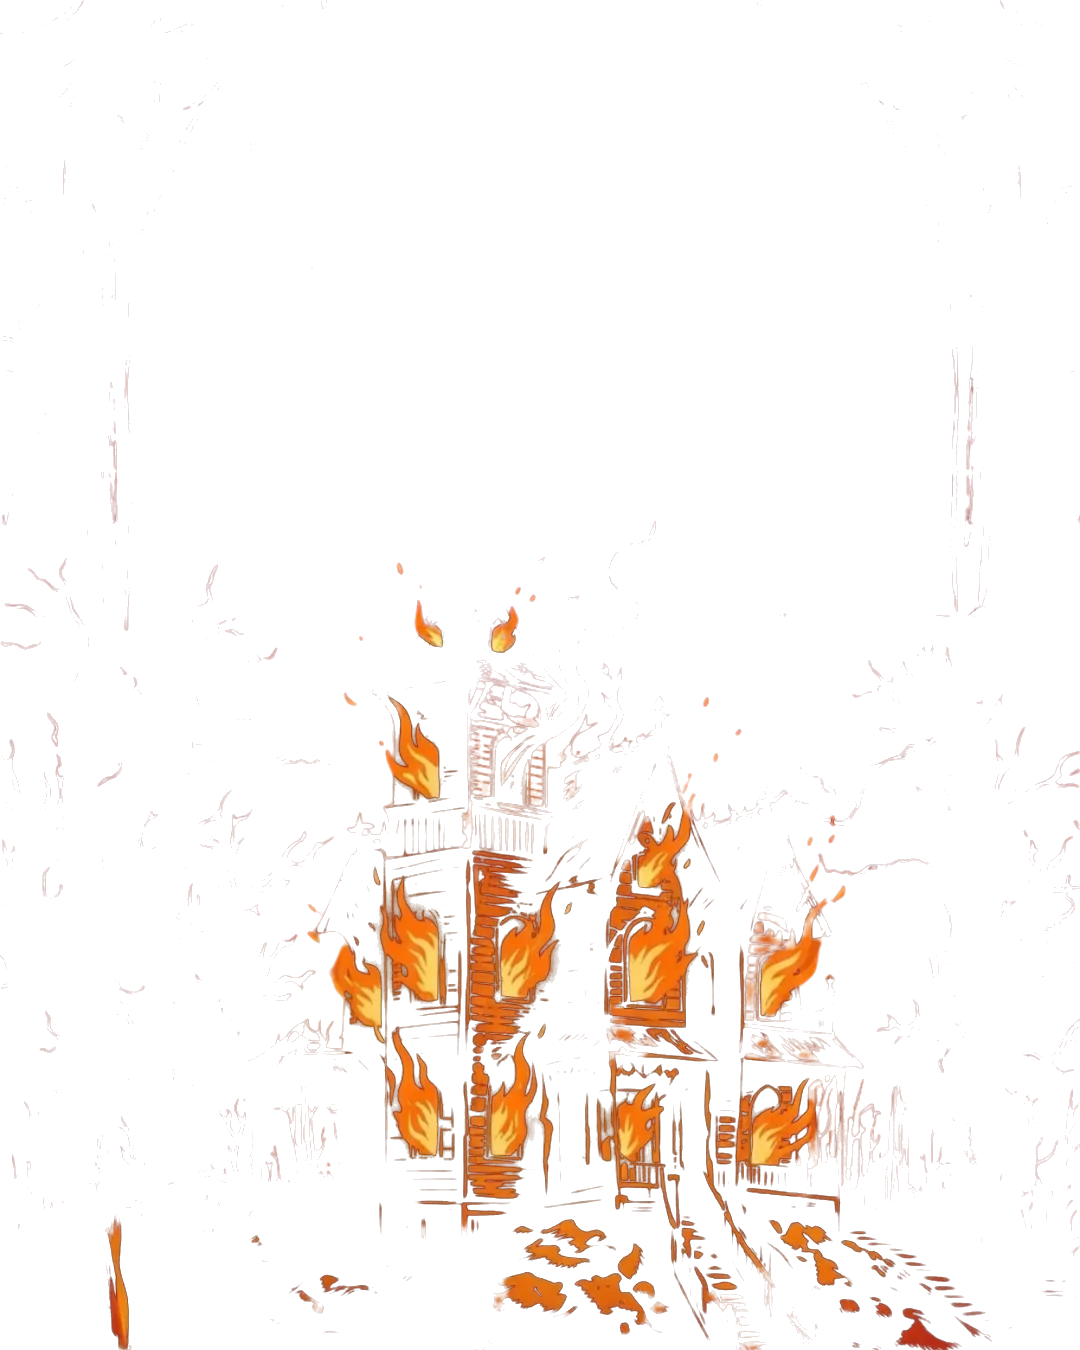
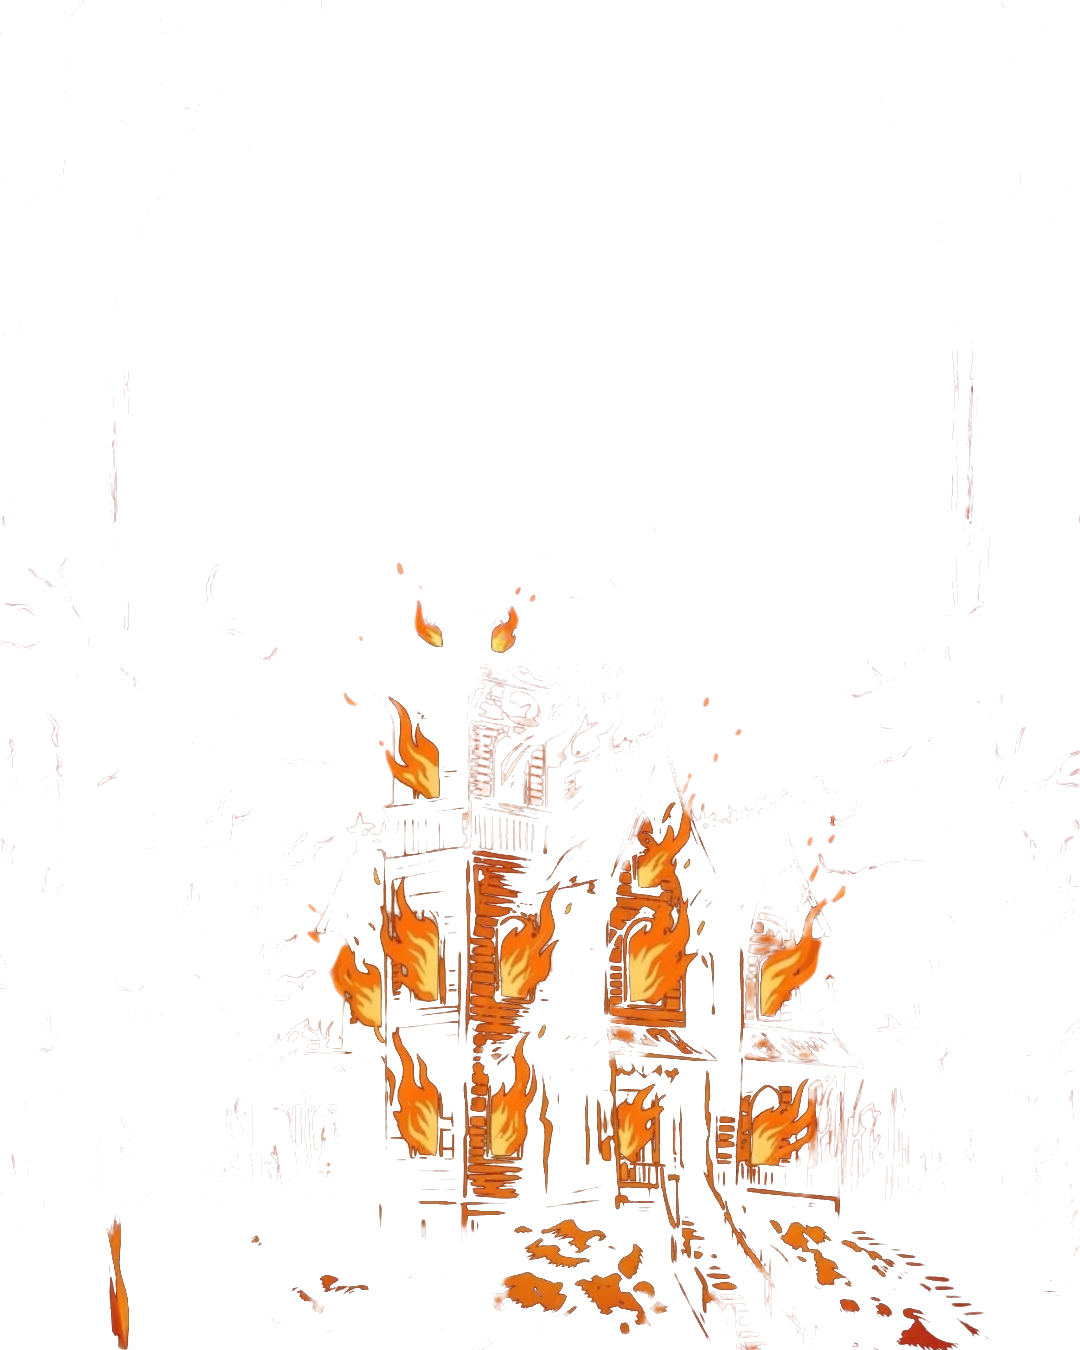
A casa volta ao tamanho de cartaz, e o fogo ganha o traço de volta
Três queixas, três causas diferentes.

**A casa na cara de quem olha.** Ela estava cortada para cobrir a tela, e
cortar um retrato numa tela larga é ampliar até doer: o desenho vinha
gigante e o traço, esticado, perdia o fio. Agora ela aparece inteira, na
proporção em que foi desenhada, e quem preenche a tela é o vermelho da
seção — que é o mesmo vermelho do fundo dela. O desenho tem um enquadramento
(árvores nas beiradas, casa ao centro, céu em cima) e jogá-lo fora era o erro.

Para o retângulo não aparecer, as bordas do desenho somem sob o próprio
vermelho, pintado por cima. Máscara aqui saía caro: ela é herdada pelos
filhos, e os filhos já são duas camadas mascaradas — cada nível obriga o
navegador a desenhar a subárvore num buffer à parte antes de compor.

**O fogo parecendo de resolução pior.** Duas causas somadas. A ampliação
acima, que sumiu junto com o corte. E o recorte: a rampa de alfa era larga
demais e comia a borda das chamas, deixando-as moles ao lado de um traço
duro. A banda ficou estreita — miolo opaco, borda fina — e o arquivo passou
a ser gravado com alfa sem perda.

Tentei também trazer o contorno preto das chamas junto do recorte, e ficou
pior: vinha o traço da outra casa junto e a linha duplicava. Desenhar um
contorno artificial em volta escureceu a cena inteira. Ficou o recorte limpo.

**A emenda com o ingresso.** O problema não estava na cena do fogo, estava na
seção de cima: a parede de ingressos continua 6% visível até o fim dela, e
[…]

diff --git a/src/components/FireSection.tsx b/src/components/FireSection.tsx
@@ -113,12 +113,17 @@ export function FireSection() {
         de seção depois da tela, e é ele que o dedo percorre com a cena parada.
       */
       const curso = caixa.height - window.innerHeight;
-      const passo = Math.round(entre0e1(curso > 0 ? -caixa.top / curso : 1) * DEGRAUS);
+      const passo = Math.round(
+        entre0e1(curso > 0 ? -caixa.top / curso : 1) * DEGRAUS,
+      );
       if (passo === ultimo) return;
       ultimo = passo;
 
       const f = passo / DEGRAUS;
-      cena.style.setProperty("--corte", `${(100 + SUAVE - f * (100 + SUAVE * 2)).toFixed(2)}%`);
+      cena.style.setProperty(
+        "--corte",
+        `${(100 + SUAVE - f * (100 + SUAVE * 2)).toFixed(2)}%`,
+      );
       // O brilho entra junto com o fogo, e não antes: clarão sem chama é vulto.
       cena.style.setProperty("--acesa", f.toFixed(3));
       // As fagulhas só existem depois que a casa já está pegando de verdade.
@@ -156,13 +161,23 @@ export function FireSection() {
       aria-labelledby="ate-la-titulo"
       className="cena-fogo bg-blood relative z-40 h-[190svh]"
     >
-      <div ref={palco} className="palco-fogo sticky top-0 h-svh overflow-hidden">
+      <div
+        ref={palco}
+        className="palco-fogo sticky top-0 h-svh overflow-hidden"
+      >
         {/*
-          A arte cobre a tela inteira em vez de caber inteira nela. Ela é
-          retrato (4:5) e a tela quase nunca é: cabendo, sobrava vermelho vazio
-          dos dois lados no computador e a casa ficava pequena no meio. Cobrindo,
-          o corte cai nas pontas — árvores no celular, céu no computador —, que é
-          moldura, e a casa ocupa a cena.
+          A arte aparece inteira, na proporção em que foi desenhada, e quem
+          preenche a tela é o vermelho da seção — que é o mesmo vermelho do
+          fundo dela, então não há onde ver a emenda.
+
+          Já foi cortada para cobrir a tela, e ficou pior: a casa vinha na cara
+          de quem olha e o traço, ampliado, perdia o fio. O desenho tem um
+          enquadramento — árvores nas beiradas, casa ao centro, céu em cima — e
+          cortar isso é jogar fora a composição.
+
+          As laterais se dissolvem no vermelho (veja `.arte-casa` no estilo):
+          sem isso as árvores das pontas terminavam numa borda reta no meio da
+          tela, que é justamente o que denuncia "tem uma imagem colada aqui".
         */}
         {/*
           `<img>` cru, e não `next/image`: os arquivos já são `.webp` no
@@ -171,44 +186,73 @@ export function FireSection() {
           do topo do arquivo.
         */}
         {/* eslint-disable @next/next/no-img-element */}
-        <img
-          src="/casa.webp"
-          alt="Casarão mal-assombrado entre árvores secas"
-          width={1080}
-          height={1350}
-          loading="lazy"
-          decoding="async"
-          className="absolute inset-0 h-full w-full object-cover object-[50%_72%]"
-        />
-
-        {/* o clarão do fogo na madeira: as chamas borradas, somadas à luz */}
-        <div aria-hidden className="brilho-fogo absolute inset-0">
+        <div
+          className="arte-casa absolute bottom-0 left-1/2 -translate-x-1/2"
+          style={
+            {
+              "--arte-h": "min(94svh, 152vw)",
+              height: "var(--arte-h)",
+              // a proporção do desenho, 4:5 — a largura sai da altura
+              width: "calc(var(--arte-h) * 0.8)",
+            } as React.CSSProperties
+          }
+        >
+          {/*
+            A caixa tem exatamente a largura do desenho — altura mandada, largura
+            saindo da proporção dele. Ela precisa ser justa porque é nela que a
+            máscara das laterais se apoia: numa caixa do tamanho da tela, o
+            esmaecido cairia na borda da tela e as árvores continuariam
+            terminando em linha reta no meio do vermelho.
+          */}
           <img
-            src="/casa-chamas.webp"
-            alt=""
+            src="/casa.webp"
+            alt="Casarão mal-assombrado entre árvores secas"
             width={1080}
             height={1350}
             loading="lazy"
             decoding="async"
-            className="absolute inset-0 h-full w-full object-cover object-[50%_72%]"
+            className="block h-full w-full"
           />
-        </div>
 
-        {/* as chamas em si */}
-        <div aria-hidden className="chamas absolute inset-0">
-          <img
-            src="/casa-chamas.webp"
-            alt=""
-            width={1080}
-            height={1350}
-            loading="lazy"
-            decoding="async"
-            className="absolute inset-0 h-full w-full object-cover object-[50%_72%]"
-          />
+          {/*
+            O clarão do fogo na madeira. A imagem já vem borrada e pequena
+            (320px, 11KB): borrão é justamente o que não precisa de resolução, e
+            assado no arquivo ele sai de graça — em CSS, `filter: blur()` sobre
+            uma camada do tamanho da arte é das coisas mais caras que existem
+            para o navegador desenhar.
+          */}
+          <div aria-hidden className="brilho-fogo absolute inset-0">
+            <img
+              src="/casa-brilho.webp"
+              alt=""
+              width={320}
+              height={400}
+              loading="lazy"
+              decoding="async"
+              className="absolute inset-0 h-full w-full"
+            />
+          </div>
+
+          {/* as chamas em si */}
+          <div aria-hidden className="chamas absolute inset-0">
+            <img
+              src="/casa-chamas.webp"
+              alt=""
+              width={1080}
+              height={1350}
+              loading="lazy"
+              decoding="async"
+              className="absolute inset-0 h-full w-full"
+            />
+          </div>
         </div>
+        {/* eslint-enable @next/next/no-img-element */}
 
         {/* as fagulhas que sobem da casa */}
-        <div aria-hidden className="fagulhas pointer-events-none absolute inset-0">
+        <div
+          aria-hidden
+          className="fagulhas pointer-events-none absolute inset-0"
+        >
           {FAGULHAS.map((g, i) => (
             <span
               key={i}
@@ -233,9 +277,10 @@ export function FireSection() {
           e a linha aparecia justamente no meio da rolagem, onde o olho está.
           A faixa faz o preto virar fumaça e a fumaça virar céu.
         */}
-        <div aria-hidden className="emenda-fogo pointer-events-none absolute inset-x-0 top-0" />
-
-        {/* eslint-enable @next/next/no-img-element */}
+        <div
+          aria-hidden
+          className="emenda-fogo pointer-events-none absolute inset-x-0 top-0"
+        />
 
         <div className="relative z-10 px-6 pt-[6svh] text-center">
           <p className="font-heading text-bone/60 text-[0.62rem] font-bold tracking-[0.35em] uppercase">
@@ -263,6 +308,57 @@ export function FireSection() {
         }
 
         /*
+          As laterais e o topo da arte se dissolvem no vermelho da seção.
+
+          O desenho é um retângulo, e retângulo tem borda: sem isto as árvores
+          das pontas e o céu do alto terminavam numa linha reta no meio da tela,
+          que é exatamente o que faz uma cena parecer figura colada. Esmaecendo,
+          a arte não acaba — ela some no fundo, que é da mesma cor.
+
+          Embaixo não há esmaecido: ali é o chão, e chão termina mesmo.
+        */
+        /*
+          As bordas do desenho somem sob o próprio vermelho da seção, pintado
+          por cima — e não recortadas por máscara.
+
+          Máscara aqui saía cara: ela é herdada pelos filhos, e os filhos já são
+          duas camadas mascaradas, uma delas borrada e misturada à luz. Cada
+          nível obriga o navegador a desenhar a subárvore inteira num buffer à
+          parte antes de compor. Como o fundo é uma cor chapada e conhecida,
+          pintar por cima dá exatamente o mesmo resultado e não custa nada.
+
+          O vermelho transparente é escrito com alfa zero na mesma cor, e não
+          com a palavra a palavra transparent: a palavra transparent é preto transparente, e a
+          interpolação até ele passa por tons escuros — apareceria uma sombra
+          suja no meio do esmaecido.
+
+          Embaixo não há esmaecido: ali é o chão, e chão termina mesmo.
+        */
+        .arte-casa::after {
+          content: "";
+          position: absolute;
+          inset: 0;
+          pointer-events: none;
+          background:
+            linear-gradient(
+              to right,
+              rgb(255 26 18) 0%,
+              rgb(255 26 18 / 0.55) 4%,
+              rgb(255 26 18 / 0) 11%,
+              rgb(255 26 18 / 0) 89%,
+              rgb(255 26 18 / 0.55) 96%,
+              rgb(255 26 18) 100%
+            ),
+            linear-gradient(
+              to bottom,
+              rgb(255 26 18) 0%,
+              rgb(255 26 18 / 0.62) 8%,
+              rgb(255 26 18 / 0.22) 15%,
+              rgb(255 26 18 / 0) 24%
+            );
+        }
+
+        /*
           A mesma máscara nas duas camadas de fogo: o clarão não pode aparecer
           onde a chama ainda não chegou, senão a madeira acende sozinha.
         */
@@ -287,7 +383,7 @@ export function FireSection() {
           repinta a cada quadro, e aqui quem se mexe é só a opacidade.
         */
         .brilho-fogo {
-          filter: blur(2.2vmin) saturate(1.5);
+          filter: saturate(1.4);
           mix-blend-mode: plus-lighter;
           opacity: calc(var(--acesa) * 0.75);
           animation: fogo-respira 3.7s ease-in-out infinite;
@@ -353,13 +449,14 @@ export function FireSection() {
         /* --- a emenda com o preto do ingresso --- */
 
         .emenda-fogo {
-          height: 46svh;
+          height: 44svh;
           background: linear-gradient(
             to bottom,
             var(--color-ink) 0%,
-            color-mix(in srgb, var(--color-ink) 82%, transparent) 16%,
-            color-mix(in srgb, var(--color-ink) 46%, transparent) 42%,
-            color-mix(in srgb, var(--color-ink) 16%, transparent) 72%,
+            color-mix(in srgb, var(--color-ink) 86%, transparent) 14%,
+            color-mix(in srgb, var(--color-ink) 60%, transparent) 32%,
+            color-mix(in srgb, var(--color-ink) 34%, transparent) 52%,
+            color-mix(in srgb, var(--color-ink) 14%, transparent) 74%,
             transparent 100%
           );
         }

diff --git a/src/components/TicketSection.tsx b/src/components/TicketSection.tsx
@@ -252,6 +252,24 @@ export function TicketSection({
         }}
       />
 
+      {/*
+        O rodapé da seção apaga no preto puro.
+
+        A parede de ingressos continua 6% visível até o fim da seção, e essa
+        textura terminava numa linha reta bem na emenda com a cena da casa —
+        dois pretos ligeiramente diferentes encostados, que é o que se via como
+        um corte grosseiro. Apagando a parede antes da borda, a seção acaba na
+        mesma cor com que a próxima começa, e não há mais onde ver a emenda.
+      */}
+      <div
+        aria-hidden
+        className="pointer-events-none absolute inset-x-0 bottom-0 h-[24vh]"
+        style={{
+          background:
+            "linear-gradient(to top, var(--color-ink) 0%, var(--color-ink) 22%, transparent 100%)",
+        }}
+      />
+
       {/* o ingresso de destaque: é o formulário */}
       <div className="relative mx-auto max-w-md">
         {/*

diff --git a/docs/manutencao.md b/docs/manutencao.md
@@ -126,6 +126,7 @@ Na pasta `public/`:
 | `casa.png`, `casa-fogo.png` | as fontes, com fundo transparente. O site **não** usa estes |
 | `casa.webp` | o que aparece: a casa limpa, achatada sobre o vermelho |
 | `casa-chamas.webp` | só o fogo, recortado da arte em chamas, com o resto transparente |
+| `casa-brilho.webp` | o mesmo fogo já borrado e pequeno (320px), que é o clarão na madeira |
 
 O achatamento não é capricho: com fundo transparente as artes pesavam 793KB, e
 sobre o vermelho pesam menos da metade. Num traço denso assim, o canal alfa é o
@@ -149,8 +150,15 @@ a = np.array(Image.open("public/casa-fogo.png").convert("RGBA")).astype(np.float
 R, G, B, A = a[..., 0], a[..., 1], a[..., 2], a[..., 3]
 alfa = (A / 255) * np.clip((R - B - 35) / 55, 0, 1) * np.clip((R - 85) / 85, 0, 1)
 alfa[alfa < 0.10] = 0                                   # corta o ruído fraco
-Image.fromarray(np.dstack([R, G, B, alfa * 255]).astype(np.uint8), "RGBA").save(
-    "public/casa-chamas.webp", "WEBP", quality=78, method=6)
+chamas = Image.fromarray(np.dstack([R, G, B, alfa * 255]).astype(np.uint8), "RGBA")
+chamas.save("public/casa-chamas.webp", "WEBP", quality=92, alpha_quality=100, method=6)
+
+# o clarão: o mesmo fogo borrado e pequeno — borrão não precisa de resolução,
+# e assado no arquivo ele sai de graça (em CSS, blur() custa caro por quadro)
+from PIL import ImageFilter
+brilho = chamas.filter(ImageFilter.GaussianBlur(26)).resize((320, 400), Image.LANCZOS)
+brilho.filter(ImageFilter.GaussianBlur(3)).save(
+    "public/casa-brilho.webp", "WEBP", quality=82, alpha_quality=90, method=6)
 ```
 
 As duas artes **não precisam ser o mesmo desenho** — as atuais não são, foram
